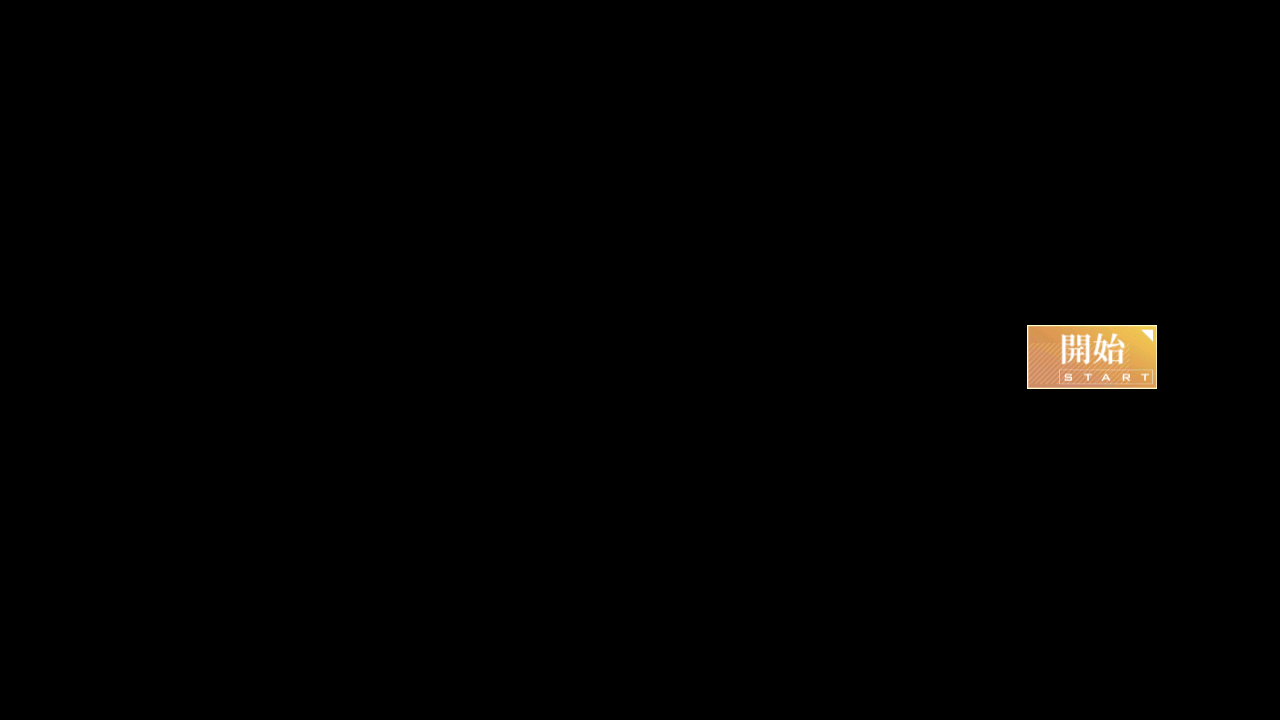
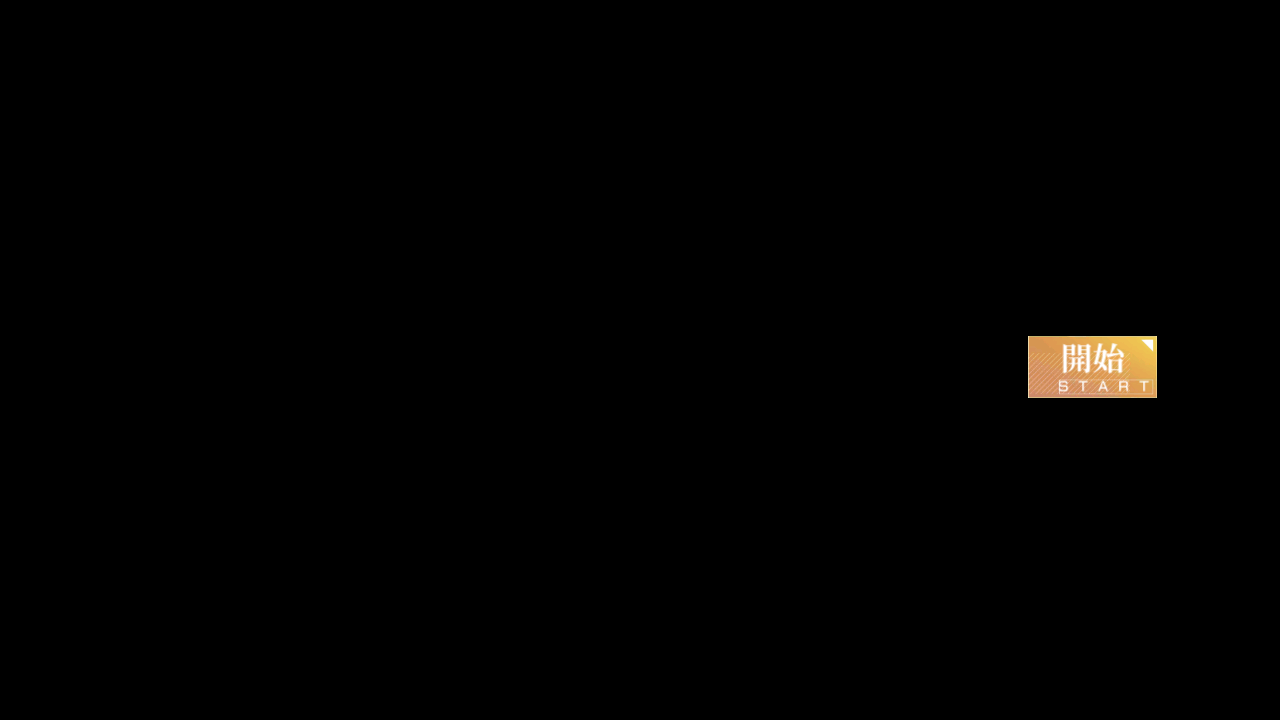
tmp: [JP] commission assets

Changed region(s): [[0.7812, 0.4278, 0.9062, 0.55]]

diff --git a/module/commission/assets.py b/module/commission/assets.py
@@ -4,11 +4,11 @@ from module.base.template import Template
 # This file was automatically generated by dev_tools/button_extract.py.
 # Don't modify it manually.
 
-COMMISSION_ADVICE = Button(area={'cn': (871, 322, 999, 383), 'en': (871, 328, 1000, 379), 'jp': (870, 325, 1000, 389), 'tw': (869, 325, 999, 388)}, color={'cn': (230, 177, 116), 'en': (231, 178, 117), 'jp': (228, 178, 117), 'tw': (231, 180, 120)}, button={'cn': (871, 322, 999, 383), 'en': (871, 328, 1000, 379), 'jp': (870, 325, 1000, 389), 'tw': (869, 325, 999, 388)}, file={'cn': './assets/cn/commission/COMMISSION_ADVICE.png', 'en': './assets/en/commission/COMMISSION_ADVICE.png', 'jp': './assets/jp/commission/COMMISSION_ADVICE.png', 'tw': './assets/tw/commission/COMMISSION_ADVICE.png'})
+COMMISSION_ADVICE = Button(area={'cn': (871, 322, 999, 383), 'en': (871, 328, 1000, 379), 'jp': (870, 335, 1000, 399), 'tw': (869, 325, 999, 388)}, color={'cn': (230, 177, 116), 'en': (231, 178, 117), 'jp': (220, 173, 115), 'tw': (231, 180, 120)}, button={'cn': (871, 322, 999, 383), 'en': (871, 328, 1000, 379), 'jp': (870, 335, 1000, 399), 'tw': (869, 325, 999, 388)}, file={'cn': './assets/cn/commission/COMMISSION_ADVICE.png', 'en': './assets/en/commission/COMMISSION_ADVICE.png', 'jp': './assets/jp/commission/COMMISSION_ADVICE.png', 'tw': './assets/tw/commission/COMMISSION_ADVICE.png'})
 COMMISSION_DAILY = Button(area={'cn': (35, 132, 67, 186), 'en': (30, 126, 75, 188), 'jp': (17, 168, 82, 185), 'tw': (35, 132, 67, 186)}, color={'cn': (208, 172, 118), 'en': (170, 132, 92), 'jp': (148, 115, 76), 'tw': (208, 171, 119)}, button={'cn': (35, 132, 67, 186), 'en': (30, 126, 75, 188), 'jp': (17, 168, 82, 185), 'tw': (35, 132, 67, 186)}, file={'cn': './assets/cn/commission/COMMISSION_DAILY.png', 'en': './assets/en/commission/COMMISSION_DAILY.png', 'jp': './assets/jp/commission/COMMISSION_DAILY.png', 'tw': './assets/tw/commission/COMMISSION_DAILY.png'})
 COMMISSION_HAS_PENDING = Button(area={'cn': (320, 288, 380, 338), 'en': (320, 288, 380, 338), 'jp': (320, 288, 380, 338), 'tw': (320, 288, 380, 338)}, color={'cn': (121, 113, 152), 'en': (121, 113, 152), 'jp': (121, 113, 152), 'tw': (121, 113, 152)}, button={'cn': (320, 288, 380, 338), 'en': (320, 288, 380, 338), 'jp': (320, 288, 380, 338), 'tw': (320, 288, 380, 338)}, file={'cn': './assets/cn/commission/COMMISSION_HAS_PENDING.png', 'en': './assets/en/commission/COMMISSION_HAS_PENDING.png', 'jp': './assets/jp/commission/COMMISSION_HAS_PENDING.png', 'tw': './assets/tw/commission/COMMISSION_HAS_PENDING.png'})
 COMMISSION_SCROLL_AREA = Button(area={'cn': (1254, 77, 1261, 676), 'en': (1254, 77, 1261, 676), 'jp': (1254, 77, 1261, 676), 'tw': (1254, 77, 1261, 676)}, color={'cn': (213, 183, 66), 'en': (213, 183, 66), 'jp': (213, 183, 66), 'tw': (213, 183, 66)}, button={'cn': (1254, 77, 1261, 676), 'en': (1254, 77, 1261, 676), 'jp': (1254, 77, 1261, 676), 'tw': (1254, 77, 1261, 676)}, file={'cn': './assets/cn/commission/COMMISSION_SCROLL_AREA.png', 'en': './assets/en/commission/COMMISSION_SCROLL_AREA.png', 'jp': './assets/jp/commission/COMMISSION_SCROLL_AREA.png', 'tw': './assets/tw/commission/COMMISSION_SCROLL_AREA.png'})
-COMMISSION_START = Button(area={'cn': (1028, 322, 1156, 383), 'en': (1066, 342, 1117, 358), 'jp': (1027, 325, 1157, 389), 'tw': (1027, 326, 1157, 389)}, color={'cn': (229, 175, 113), 'en': (236, 197, 150), 'jp': (228, 179, 118), 'tw': (231, 180, 120)}, button={'cn': (1028, 322, 1156, 383), 'en': (1066, 342, 1117, 358), 'jp': (1027, 325, 1157, 389), 'tw': (1027, 326, 1157, 389)}, file={'cn': './assets/cn/commission/COMMISSION_START.png', 'en': './assets/en/commission/COMMISSION_START.png', 'jp': './assets/jp/commission/COMMISSION_START.png', 'tw': './assets/tw/commission/COMMISSION_START.png'})
+COMMISSION_START = Button(area={'cn': (1028, 322, 1156, 383), 'en': (1066, 342, 1117, 358), 'jp': (1028, 336, 1157, 398), 'tw': (1027, 326, 1157, 389)}, color={'cn': (229, 175, 113), 'en': (236, 197, 150), 'jp': (227, 176, 115), 'tw': (231, 180, 120)}, button={'cn': (1028, 322, 1156, 383), 'en': (1066, 342, 1117, 358), 'jp': (1028, 336, 1157, 398), 'tw': (1027, 326, 1157, 389)}, file={'cn': './assets/cn/commission/COMMISSION_START.png', 'en': './assets/en/commission/COMMISSION_START.png', 'jp': './assets/jp/commission/COMMISSION_START.png', 'tw': './assets/tw/commission/COMMISSION_START.png'})
 COMMISSION_URGENT = Button(area={'cn': (35, 231, 68, 281), 'en': (28, 221, 76, 283), 'jp': (34, 266, 68, 279), 'tw': (35, 229, 69, 280)}, color={'cn': (215, 188, 124), 'en': (169, 138, 95), 'jp': (216, 190, 111), 'tw': (213, 186, 123)}, button={'cn': (35, 231, 68, 281), 'en': (28, 221, 76, 283), 'jp': (34, 266, 68, 279), 'tw': (35, 229, 69, 280)}, file={'cn': './assets/cn/commission/COMMISSION_URGENT.png', 'en': './assets/en/commission/COMMISSION_URGENT.png', 'jp': './assets/jp/commission/COMMISSION_URGENT.png', 'tw': './assets/tw/commission/COMMISSION_URGENT.png'})
 EXP_INFO_S_REWARD = Button(area={'cn': (498, 140, 557, 154), 'en': (1138, 40, 1266, 145), 'jp': (498, 140, 557, 154), 'tw': (498, 140, 557, 154)}, color={'cn': (233, 241, 127), 'en': (89, 115, 159), 'jp': (233, 241, 127), 'tw': (233, 241, 127)}, button={'cn': (498, 140, 557, 154), 'en': (1138, 40, 1266, 145), 'jp': (498, 140, 557, 154), 'tw': (498, 140, 557, 154)}, file={'cn': './assets/cn/commission/EXP_INFO_S_REWARD.png', 'en': './assets/en/commission/EXP_INFO_S_REWARD.png', 'jp': './assets/jp/commission/EXP_INFO_S_REWARD.png', 'tw': './assets/tw/commission/EXP_INFO_S_REWARD.png'})
 REWARD_1 = Button(area={'cn': (383, 285, 503, 297), 'en': (403, 274, 504, 290), 'jp': (432, 273, 476, 294), 'tw': (383, 285, 503, 297)}, color={'cn': (238, 168, 81), 'en': (241, 198, 145), 'jp': (241, 188, 122), 'tw': (238, 168, 81)}, button={'cn': (383, 285, 503, 297), 'en': (392, 262, 515, 303), 'jp': (393, 262, 514, 303), 'tw': (383, 285, 503, 297)}, file={'cn': './assets/cn/commission/REWARD_1.png', 'en': './assets/en/commission/REWARD_1.png', 'jp': './assets/jp/commission/REWARD_1.png', 'tw': './assets/tw/commission/REWARD_1.png'})
